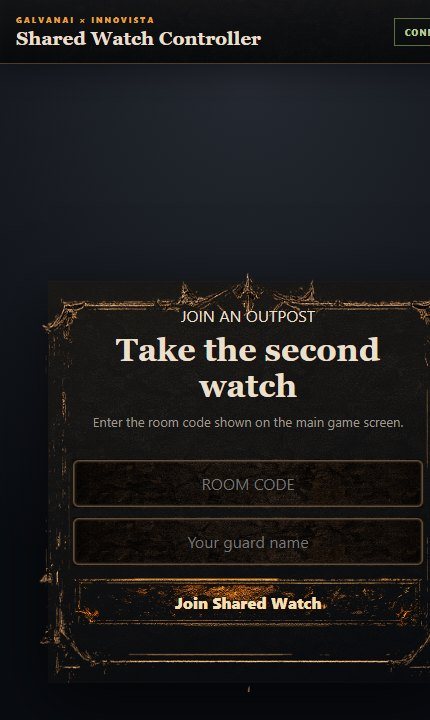
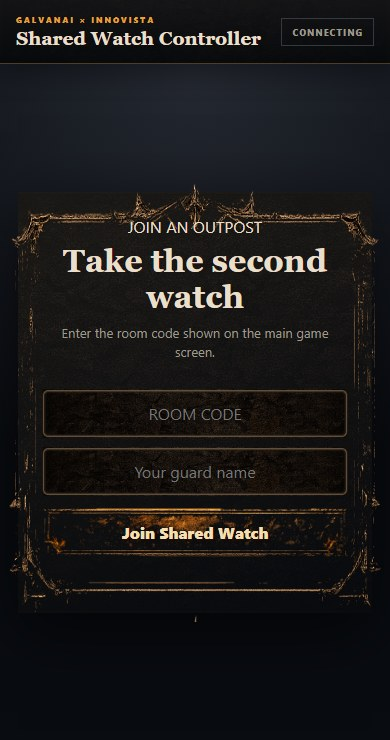
Update README for in-run buying and use a phone-width screenshot

diff --git a/README.md b/README.md
@@ -16,7 +16,7 @@
 
 - **Your phone is the second controller.** A second player scans a QR code and joins on their phone. A refresh or a dropped connection rejoins the same seat within 20 seconds.
 - **The phone sees the game as live HD video.** The kiosk streams its screen to the phone over WebRTC, switching between 240p and 1080p as the connection changes, in the same way video sites adapt quality. [How it works](docs/adaptive-streaming.md).
-- **A cheat-proof economy.** Coins, unlocks, ammo and upgrades live on the server in Postgres, keyed to a device id. Every purchase and run reward is validated and capped there, so editing the browser grants nothing.
+- **Server-checked progress.** Banked coins, unlocks and permanent upgrades live on the server in Postgres, keyed to a device id. Run rewards are validated and capped there, so editing the browser can't grant permanent progress. Purchases during a run are instant, using that run's coins.
 - **No build step.** The client is plain JavaScript and HTML Canvas, served by Express.
 
 ## Quick start
@@ -56,8 +56,8 @@ You defend the wall overnight. Raiders, and from wave 3 beast-creatures, come fr
 | Mouse | Aim |
 | Left-click or Space | Fire |
 | Q | **Signal Volley** shockwave, when charged |
-| 1–6 | Switch weapon |
-| Z, X, C, V | Field Kit: Supply Line repair, Backup Team, War Beast, Dragon Strike |
+| 1–6 | Equip a weapon, or buy it or a clip with this run's coins |
+| Z, X, C, V | Field Kit: Supply Line repair, Backup Team, War Beast, Dragon Strike. The first press buys one; later presses use it |
 
 - **Mango supply cart:** grab the cart that crosses the field for a free wall repair. That's the event's mango theme, built into the gameplay.
 - **Three battlefields:** Dust Frontier, Burnt Orchard and Frostwatch Ridge, each with its own hazard.
@@ -70,7 +70,7 @@ You defend the wall overnight. Raiders, and from wave 3 beast-creatures, come fr
 
 ## Two players: Shared Watch
 
-<img src="docs/screenshots/phone-controller.jpg" width="260" align="right" alt="The phone controller page, asking for a room code and a guard name">
+<img src="docs/screenshots/phone-controller.jpg" width="260" align="right" alt="The phone controller page at phone width, asking for a room code and a guard name">
 
 Pick **Shared Watch** to create a room. The screen shows a QR code and room code; the second player opens it on their phone to play **together** or **against** each other. Both wardens stand on the wall with their own aim and firing.
 
